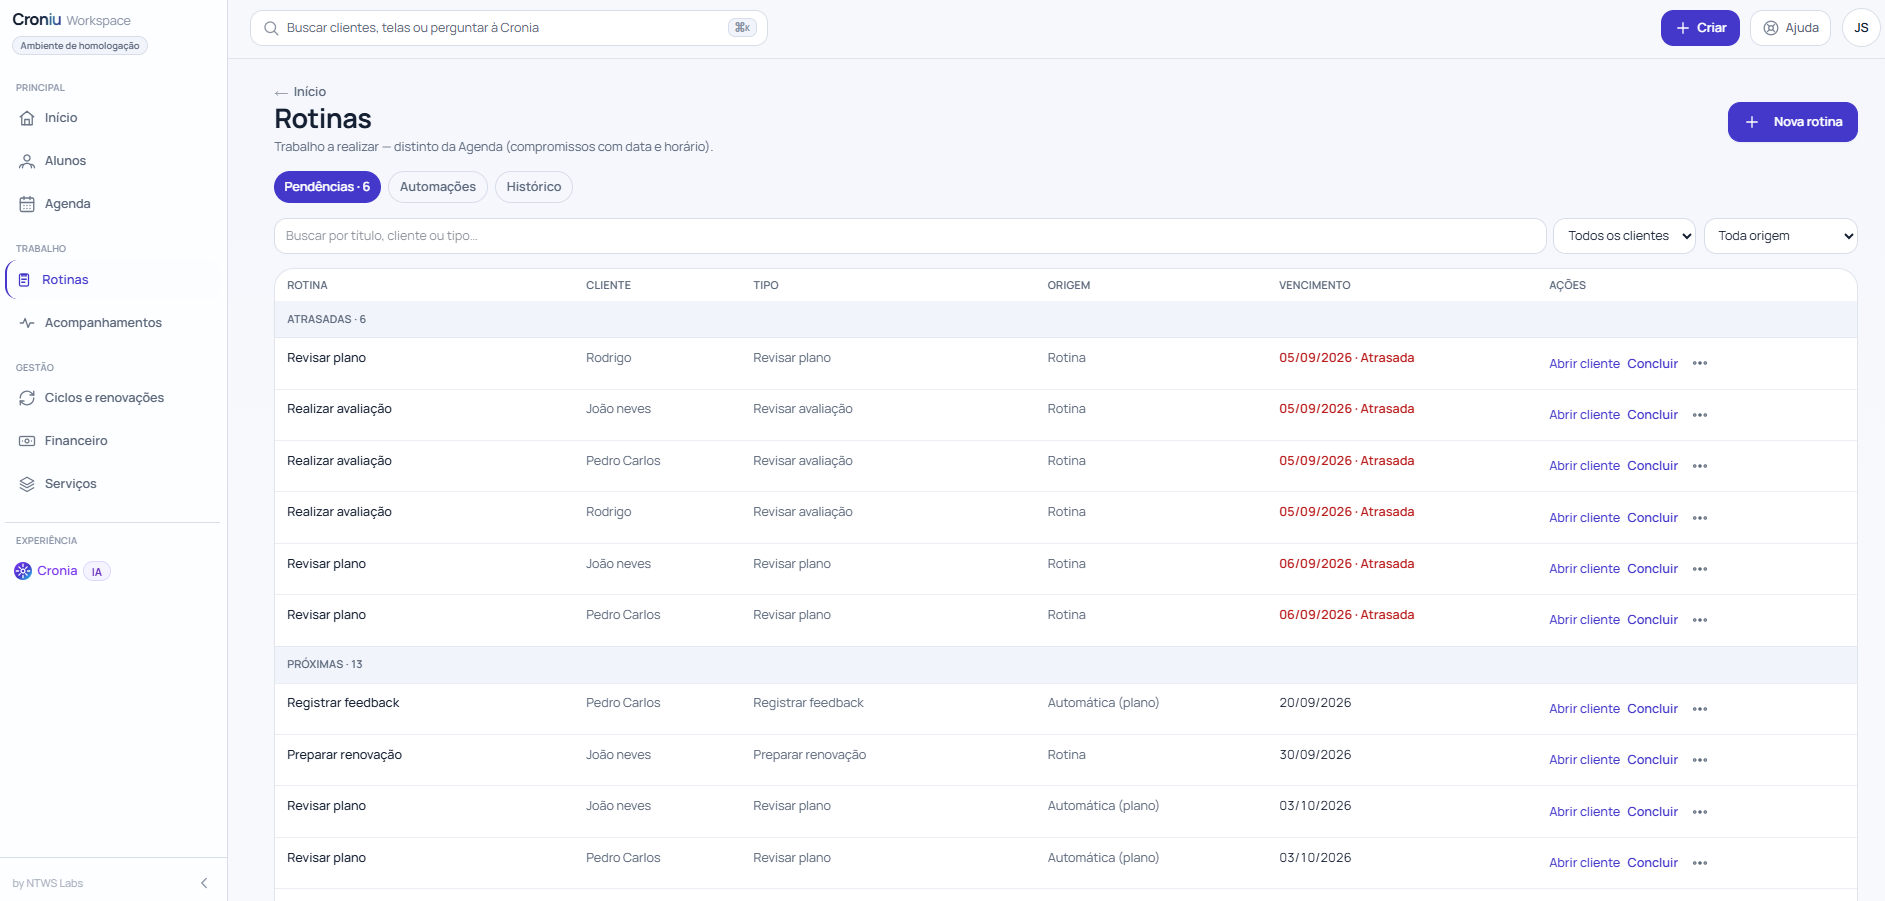
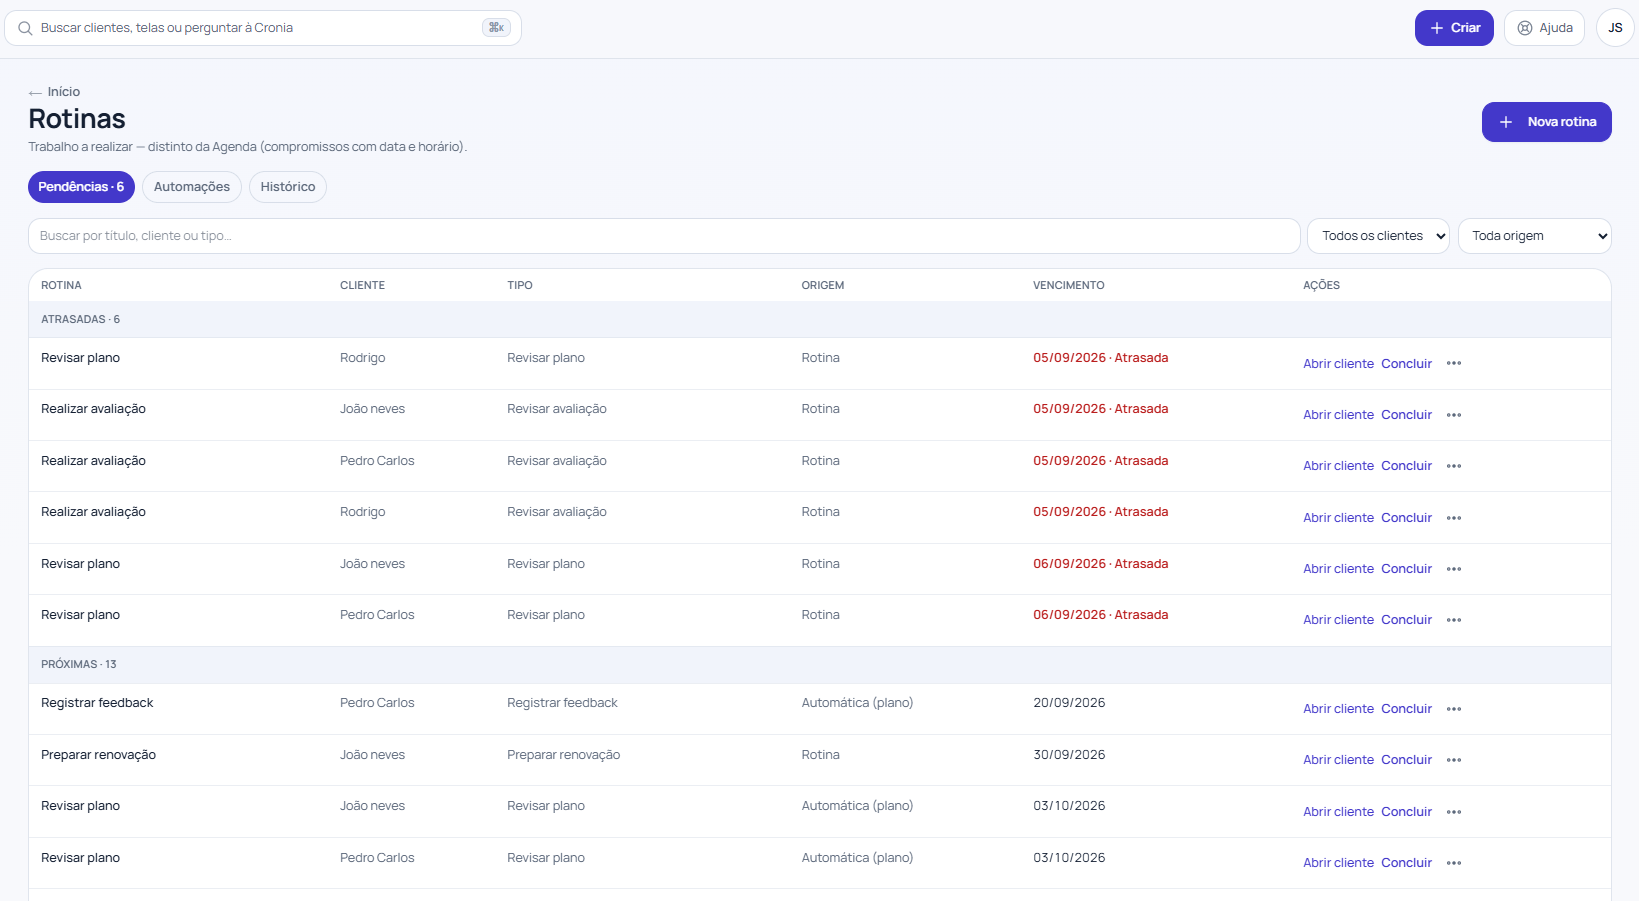
fix(lp): melhora nitidez e enquadramento das telas
Diagnostico (currentSrc/naturalWidth/clientWidth/devicePixelRatio):
o "sizes" do ProductScreenshot dizia 640px para telas que na verdade
renderizam ate 1088px no desktop — o navegador pedia uma variante
pequena e o CSS esticava, gerando o borrao. Corrige o "sizes" de cada
secao para a largura real do container (524/611/896/1088px conforme o
layout), agora com variantes de 1080/1200/1920 quando cabivel.

quality tambem estava caindo para 75 mesmo passando 92: o Next 16 tem
um allowlist padrao images.qualities=[75] que descarta silenciosamente
qualquer valor fora da lista. Adiciona images.qualities=[92] ao
next.config.ts — unico uso de next/image no projeto, sem impacto em
outras paginas (nenhuma outra usa o componente).

Testado "unoptimized" comparando com o PNG original: mesma resolucao
de origem (a otimizacao do Next nao piora nitidez, so recomprime), e
o arquivo original pesa ~2.4x mais para ganho perceptivo nulo — nao
adotado.

Recorta 4 screenshots (sharp, extract puro, sem redesenhar conteudo):
home-desktop, alunos-lista, financeiro e rotinas-dia perdem a barra
lateral ja mostrada na tela principal e o espaco vazio inferior,
aproximando o modulo relevante. agenda, ciclo-plano, convite-aluno,
cronia-mobile e home-mobile ja estavam bem enquadradas e nao foram
alteradas.

Limitacao residual: cronia-mobile.png e home-mobile.png sao capturas
nativas em ~390px — insuficientes para nitidez plena em quadro de
[…]

diff --git a/src/components/lp-google-ads/lp-footer.tsx b/src/components/lp-google-ads/lp-footer.tsx
@@ -1,0 +1,45 @@
+import Link from "next/link";
+import { BrandWordmark } from "@/components/brand";
+import { Container } from "@/components/ui/container";
+import { CookiePreferencesLink } from "@/components/analytics/cookie-preferences-link";
+import { currentYear, siteConfig } from "@/lib/site";
+
+/**
+ * LP-only footer: same legal links as SiteFooter, but without the MEI/CNPJ/
+ * address identification line — kept out of this campaign page on request.
+ * SiteFooter (used by the home page and elsewhere) is untouched.
+ */
+export function LpFooter() {
+  return (
+    <footer className="border-t border-ink/10 bg-white">
+      <Container className="flex flex-col gap-6 py-10">
+        <div className="flex flex-col gap-6 sm:flex-row sm:items-center sm:justify-between">
+          <div className="flex flex-col gap-2">
+            <BrandWordmark size="sm" />
+            <p className="text-sm text-ink/60">
+              &copy; {currentYear()} Croniu &middot; Todos os direitos reservados
+            </p>
+          </div>
+
+          <nav
+            aria-label="Links legais"
+            className="flex flex-wrap items-center gap-x-6 gap-y-2 text-sm text-ink/70"
+          >
+            <Link href="/privacidade" className="hover:text-ink">
+              Privacidade
+            </Link>
+            <Link href="/termos" className="hover:text-ink">
+              Termos de uso
+            </Link>
+            <CookiePreferencesLink />
+            {siteConfig.supportEmail ? (
+              <a href={`mailto:${siteConfig.supportEmail}`} className="hover:text-ink">
+                {siteConfig.supportEmail}
+              </a>
+            ) : null}
+          </nav>
+        </div>
+      </Container>
+    </footer>
+  );
+}

diff --git a/src/components/lp-google-ads/product-screenshot.tsx b/src/components/lp-google-ads/product-screenshot.tsx
@@ -8,7 +8,18 @@ type ProductScreenshotProps = {
   height: number;
   frame?: "browser" | "phone" | "none";
   priority?: boolean;
-  sizes?: string;
+  /**
+   * Required, no fallback default: must reflect the real rendered CSS width
+   * of this image's container at each breakpoint (not a guess). A `sizes`
+   * value smaller than the true display width makes Next.js request an
+   * undersized source, which shows up as soft/blurry text once the browser
+   * stretches it back up to the real container width — measure the actual
+   * `clientWidth` before writing this string. Ignored for `frame="phone"`,
+   * which always renders at a fixed 280px regardless of viewport.
+   */
+  sizes: string;
+  /** 90-100 for screenshots with UI text — the default 75 visibly softens small text. */
+  quality?: number;
   className?: string;
 };
 
@@ -24,11 +35,21 @@ export function ProductScreenshot({
   height,
   frame = "browser",
   priority = false,
-  sizes = "(min-width: 1024px) 640px, 100vw",
+  sizes,
+  quality = 92,
   className,
 }: ProductScreenshotProps) {
   const image = (
-    <Image src={src} alt={alt} width={width} height={height} priority={priority} sizes={sizes} className="h-auto w-full" />
+    <Image
+      src={src}
+      alt={alt}
+      width={width}
+      height={height}
+      priority={priority}
+      quality={quality}
+      sizes={frame === "phone" ? "280px" : sizes}
+      className="h-auto w-full"
+    />
   );
 
   if (frame === "phone") {

diff --git a/src/app/personal-trainer/page.tsx b/src/app/personal-trainer/page.tsx
@@ -11,14 +11,14 @@ import { LpStepsSection } from "@/components/lp-google-ads/lp-steps-section";
 import { LpFaqSection } from "@/components/lp-google-ads/lp-faq-section";
 import { LpFinalCtaSection } from "@/components/lp-google-ads/lp-final-cta-section";
 import { LpStickyCtaBar } from "@/components/lp-google-ads/lp-sticky-cta-bar";
-import { SiteFooter } from "@/components/landing/site-footer";
+import { LpFooter } from "@/components/lp-google-ads/lp-footer";
 
 export const metadata: Metadata = {
   title: "Para personal trainers: organize agenda, ciclos e renovações",
   description:
     "O Croniu mostra todo dia o que precisa da sua atenção — renovações, recebimentos e agenda dos seus alunos — e a Cronia ajuda você a resolver, sempre com sua confirmação antes de agir.",
   alternates: {
-    canonical: "/lp/personal-trainer",
+    canonical: "/personal-trainer",
   },
   robots: {
     index: false,
@@ -43,7 +43,7 @@ export default function PersonalTrainerLpPage() {
           <LpFaqSection />
           <LpFinalCtaSection />
         </main>
-        <SiteFooter />
+        <LpFooter />
       </div>
       <LpStickyCtaBar />
     </>

diff --git a/src/components/lp-google-ads/lp-management-section.tsx b/src/components/lp-google-ads/lp-management-section.tsx
@@ -23,8 +23,8 @@ const TABS = [
     label: "Alunos",
     icon: IconUsers,
     src: "/images/lp-personal-trainer/alunos-lista.png",
-    width: 1914,
-    height: 904,
+    width: 1668,
+    height: 500,
     alt: "Lista de alunos do Croniu com colunas de atendimento, agenda, evolução, financeiro, renovação e atenção",
   },
   {
@@ -41,8 +41,8 @@ const TABS = [
     label: "Financeiro",
     icon: IconWallet,
     src: "/images/lp-personal-trainer/financeiro.png",
-    width: 1879,
-    height: 901,
+    width: 1633,
+    height: 800,
     alt: "Painel financeiro do Croniu com recebido no mês, previsto, vencidos e evolução do recebido",
   },
 ] as const;
@@ -90,6 +90,7 @@ export function LpManagementSection() {
           alt={active.alt}
           width={active.width}
           height={active.height}
+          sizes="(min-width: 1024px) 896px, (min-width: 640px) calc(100vw - 48px), calc(100vw - 32px)"
           className="mx-auto max-w-4xl"
         />
       </Container>

diff --git a/src/components/lp-google-ads/lp-footer.test.tsx b/src/components/lp-google-ads/lp-footer.test.tsx
@@ -1,0 +1,19 @@
+import { describe, expect, it } from "vitest";
+import { render, screen } from "@testing-library/react";
+import { LpFooter } from "./lp-footer";
+
+describe("LpFooter", () => {
+  it("shows a discreet copyright line instead of the MEI/CNPJ/address identification", () => {
+    render(<LpFooter />);
+    expect(screen.getByText(/Todos os direitos reservados/i)).toBeInTheDocument();
+    expect(screen.queryByText(/CNPJ/i)).not.toBeInTheDocument();
+    expect(screen.queryByText(/Bairro Pestana/i)).not.toBeInTheDocument();
+    expect(screen.queryByText(/\(MEI\)/i)).not.toBeInTheDocument();
+  });
+
+  it("keeps the Privacidade and Termos de uso links", () => {
+    render(<LpFooter />);
+    expect(screen.getByRole("link", { name: "Privacidade" })).toHaveAttribute("href", "/privacidade");
+    expect(screen.getByRole("link", { name: "Termos de uso" })).toHaveAttribute("href", "/termos");
+  });
+});

diff --git a/next.config.ts b/next.config.ts
@@ -3,6 +3,22 @@ import type { NextConfig } from "next";
 const nextConfig: NextConfig = {
   output: "standalone",
   poweredByHeader: false,
+  images: {
+    // 92 is the only quality value used in the app (LP screenshots via
+    // ProductScreenshot) — Next.js silently clamps any value not in this
+    // allowlist to its nearest entry, so an unconfigured default of 75
+    // would otherwise override the explicit `quality={92}` prop.
+    qualities: [92],
+  },
+  async redirects() {
+    return [
+      {
+        source: "/lp/personal-trainer",
+        destination: "/personal-trainer",
+        permanent: true,
+      },
+    ];
+  },
   async headers() {
     return [
       {

diff --git a/src/components/lp-google-ads/lp-devices-section.tsx b/src/components/lp-google-ads/lp-devices-section.tsx
@@ -24,7 +24,8 @@ export function LpDevicesSection() {
               src="/images/lp-personal-trainer/home-desktop.png"
               alt="Croniu aberto no computador, com visão completa do dia e do financeiro"
               width={1918}
-              height={907}
+              height={870}
+              sizes="(min-width: 1024px) 611px, calc(100vw - 32px)"
             />
           </div>
 
@@ -39,6 +40,7 @@ export function LpDevicesSection() {
               width={382}
               height={829}
               frame="phone"
+              sizes="280px"
             />
           </div>
         </div>

diff --git a/src/components/lp-google-ads/lp-product-visual-section.tsx b/src/components/lp-google-ads/lp-product-visual-section.tsx
@@ -16,7 +16,8 @@ export function LpProductVisualSection() {
           src="/images/lp-personal-trainer/home-desktop.png"
           alt="Tela inicial do Croniu mostrando itens que precisam de decisão, financeiro do mês e próximo compromisso"
           width={1918}
-          height={907}
+          height={870}
+          sizes="(min-width: 1024px) 1088px, calc(100vw - 32px)"
           priority
         />
         <SectionViewTracker featureId="lp_ads_visual" />

diff --git a/src/components/lp-google-ads/lp-daily-overview-section.tsx b/src/components/lp-google-ads/lp-daily-overview-section.tsx
@@ -16,8 +16,9 @@ export function LpDailyOverviewSection() {
         <ProductScreenshot
           src="/images/lp-personal-trainer/rotinas-dia.png"
           alt="Tela de rotinas do Croniu com pendências atrasadas e próximas, organizadas por aluno e prazo"
-          width={1885}
+          width={1639}
           height={901}
+          sizes="(min-width: 1024px) 524px, calc(100vw - 32px)"
         />
       </Container>
     </section>

diff --git a/src/components/lp-google-ads/lp-steps-section.tsx b/src/components/lp-google-ads/lp-steps-section.tsx
@@ -32,6 +32,7 @@ export function LpStepsSection() {
             alt="Modal de convite de aluno do Croniu, com opção de enviar pelo WhatsApp ou copiar o link"
             width={1596}
             height={622}
+            sizes="(min-width: 1024px) 524px, calc(100vw - 32px)"
           />
 
           <ol className="flex flex-col gap-6">

diff --git a/src/components/lp-google-ads/lp-assistant-section.tsx b/src/components/lp-google-ads/lp-assistant-section.tsx
@@ -33,6 +33,7 @@ export function LpAssistantSection() {
             width={390}
             height={901}
             frame="phone"
+            sizes="280px"
           />
         </div>
       </Container>

diff --git a/docs/ANALYTICS.md b/docs/ANALYTICS.md
@@ -58,14 +58,23 @@ src/components/landing/
 Tudo é montado uma única vez em `src/app/layout.tsx` (raiz), então não há
 risco de o contêiner ser instalado mais de uma vez.
 
-### Landing page de Google Ads (`/lp/personal-trainer`)
+### Landing page de Google Ads (`/personal-trainer`)
 
 Vive sob o mesmo `layout.tsx` raiz — herda GTM, Consent Mode e o
 `RoutePageviewTracker` automaticamente, sem nenhum código de analytics
 próprio. A página é marcada `robots: { index: false, follow: true }`
 (prática padrão para LP de campanha paga: evita conteúdo duplicado com a home
 nos resultados orgânicos; não afeta a campanha do Google Ads, que não
-depende de indexação) e não entra em `sitemap.ts`.
+depende de indexação) e não entra em `sitemap.ts`. Canonical:
+`https://croniu.com.br/personal-trainer`.
+
+A rota anterior, `/lp/personal-trainer`, foi removida e substituída por um
+redirect 308 permanente (`next.config.ts`, `redirects()`) para
+`/personal-trainer`, preservando toda a query string (UTM/gclid) — os
+anúncios que já apontam para a URL antiga continuam funcionando. O redirect
+acontece na camada de roteamento do Next.js, antes de qualquer render React,
+então não há segunda instância de `page_view`: o `RoutePageviewTracker` só
+dispara uma vez, na URL final.
 
 Componentes em `src/components/lp-google-ads/` reaproveitam os helpers de
 `src/lib/analytics/` e `app-cta-link.tsx` sem alteração — só adicionam novos
@@ -84,7 +93,7 @@ visível, para as duas nunca ficarem sobrepostas.
 `cta_location`/`source` usam um enum fechado: `header | hero | features | pricing |
 final_cta | lp_ads_header | lp_ads_hero | lp_ads_final_cta | lp_ads_sticky`. Os
 quatro últimos valores são exclusivos da landing page de Google Ads
-(`/lp/personal-trainer`, `src/components/lp-google-ads/`) — mesmos eventos e
+(`/personal-trainer`, `src/components/lp-google-ads/`) — mesmos eventos e
 helpers da home, só um `cta_location` diferente por posição do CTA naquela
 página (header, hero, CTA final e a barra fixa do mobile — a seção de 3 passos
 não tem CTA próprio, só o screenshot e a lista numerada).
